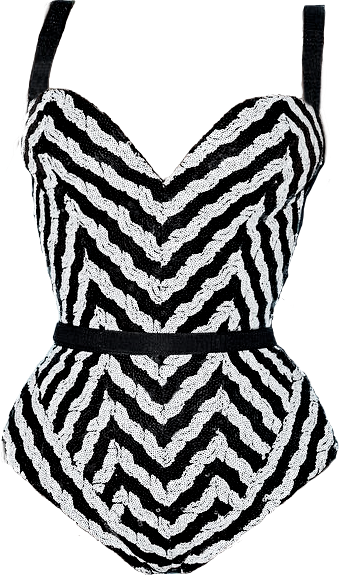
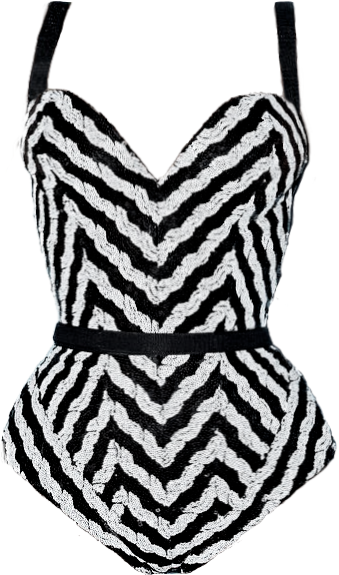
utility function for black and white bodysuit added and working properly

diff --git a/client/components/cameraUtils.js b/client/components/cameraUtils.js
@@ -61,6 +61,16 @@ export function placeHat(keypoints, minConfidence, canvasContext, scale = 1) {
   const noseY = keypoints[0].position.y
   const noseYleftEyeY = noseY - leftEyeY
 
+  //Bodysuit variables :
+
+  const leftShoulderX = keypoints[5].position.x
+  const rightShoulderX = keypoints[6].position.x
+  const rightShoulderY = keypoints[6].position.y
+  const shoulderDistance = leftShoulderX - rightShoulderX
+  const twoThirds = shoulderDistance * 0.7
+  const halfwayBtwShoulders = (leftShoulderX - rightShoulderX) / 2
+  const fifthBtwShoulders = (leftShoulderX - rightShoulderX) / 5
+
   var hatImg = document.getElementById('hat')
 
   var type = hatImg.alt
@@ -158,6 +168,27 @@ export function placeHat(keypoints, minConfidence, canvasContext, scale = 1) {
             y - height,
             twoTimesEars,
             twoTimesEars * 1.1375
+          )
+        }
+      })
+      break
+
+    case 'barbieBodysuit':
+      console.log('Barbie Bodysuit')
+      keypoints.forEach(keypoint => {
+        if (keypoint.score >= minConfidence && keypoint.part === 'nose') {
+          const {x, y} = keypoint.position
+          canvasContext.beginPath()
+          canvasContext.drawImage(
+            hatImg, // imgSource, variable set by grabbing photo by id
+            0, // sourceX, start drawing image at this x
+            0, // sourceY, start drawing image at this y
+            hatImg.width, // sourceWidth, crops the image if manipulated, hatImg.width keeps entire image
+            hatImg.height, // sourceHeight, crops the image if manipulated, hatImg.height keeps entire image
+            x - twoThirds, // destinationX, x on canvas where top left corner of image sits
+            rightShoulderY - fifthBtwShoulders, // destinationY, y on canvas where top left corner of image sits
+            shoulderDistance * 1.5,
+            halfwayBtwShoulders * 4.5
           )
         }
       })

diff --git a/client/components/Camera.js b/client/components/Camera.js
@@ -123,6 +123,7 @@ class Camera extends Component {
         outputStride
       )
       poses.push(pose)
+      console.log(poses)
 
       canvasContext.clearRect(0, 0, videoWidth, videoHeight)
 
